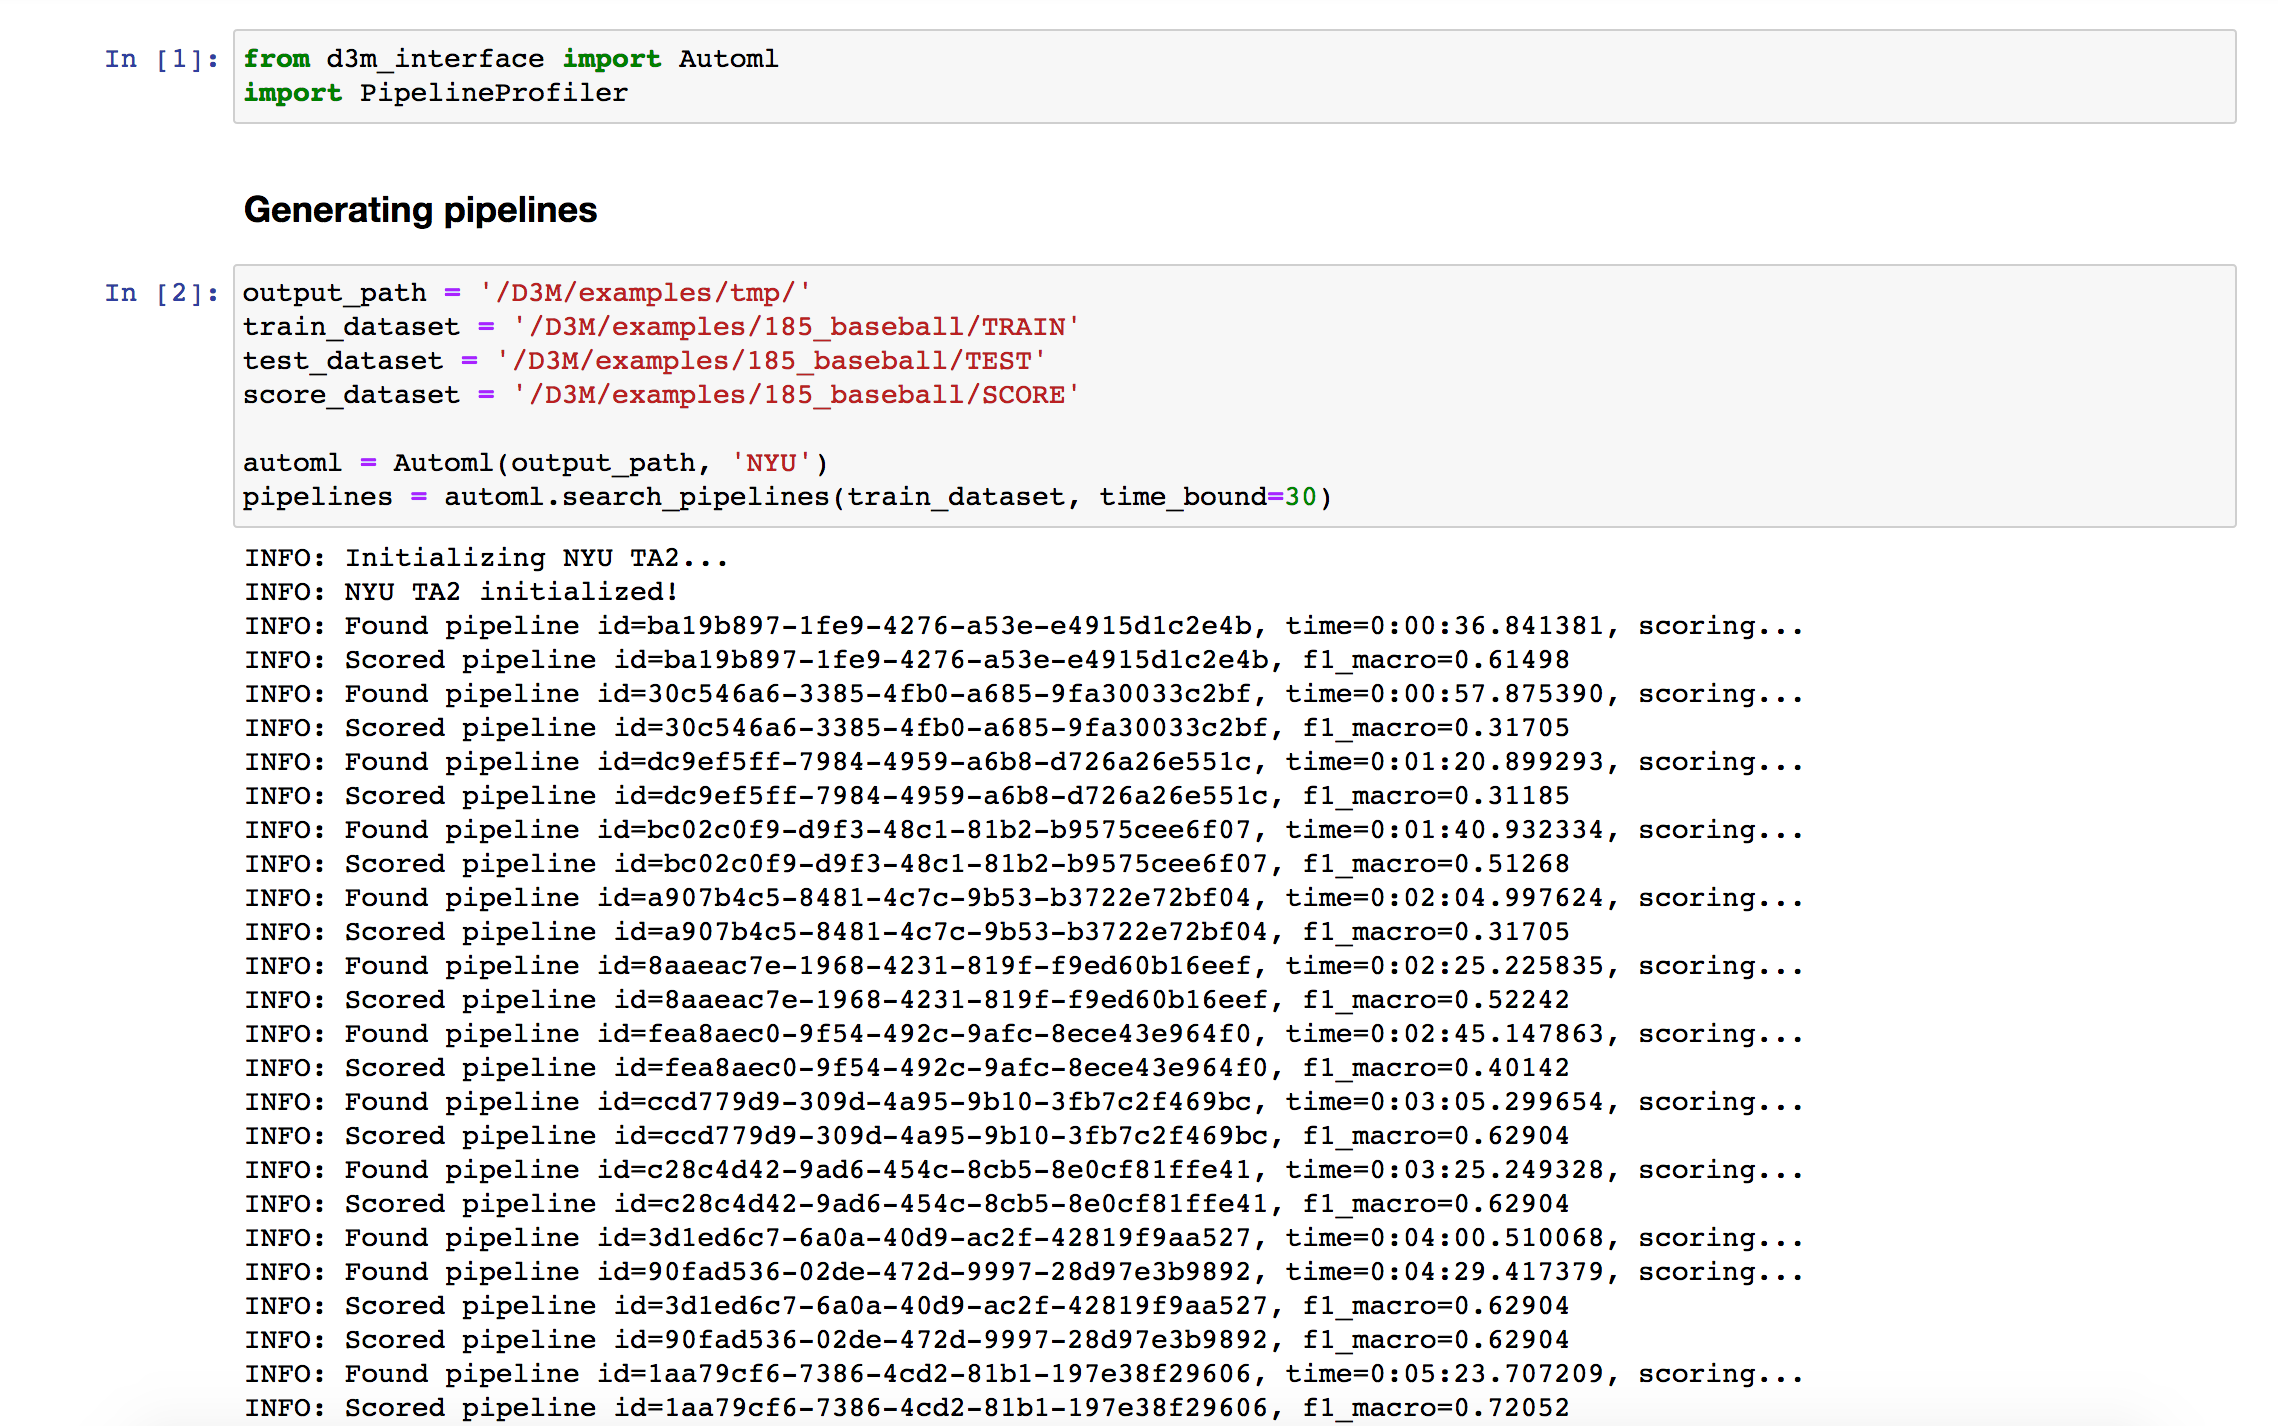
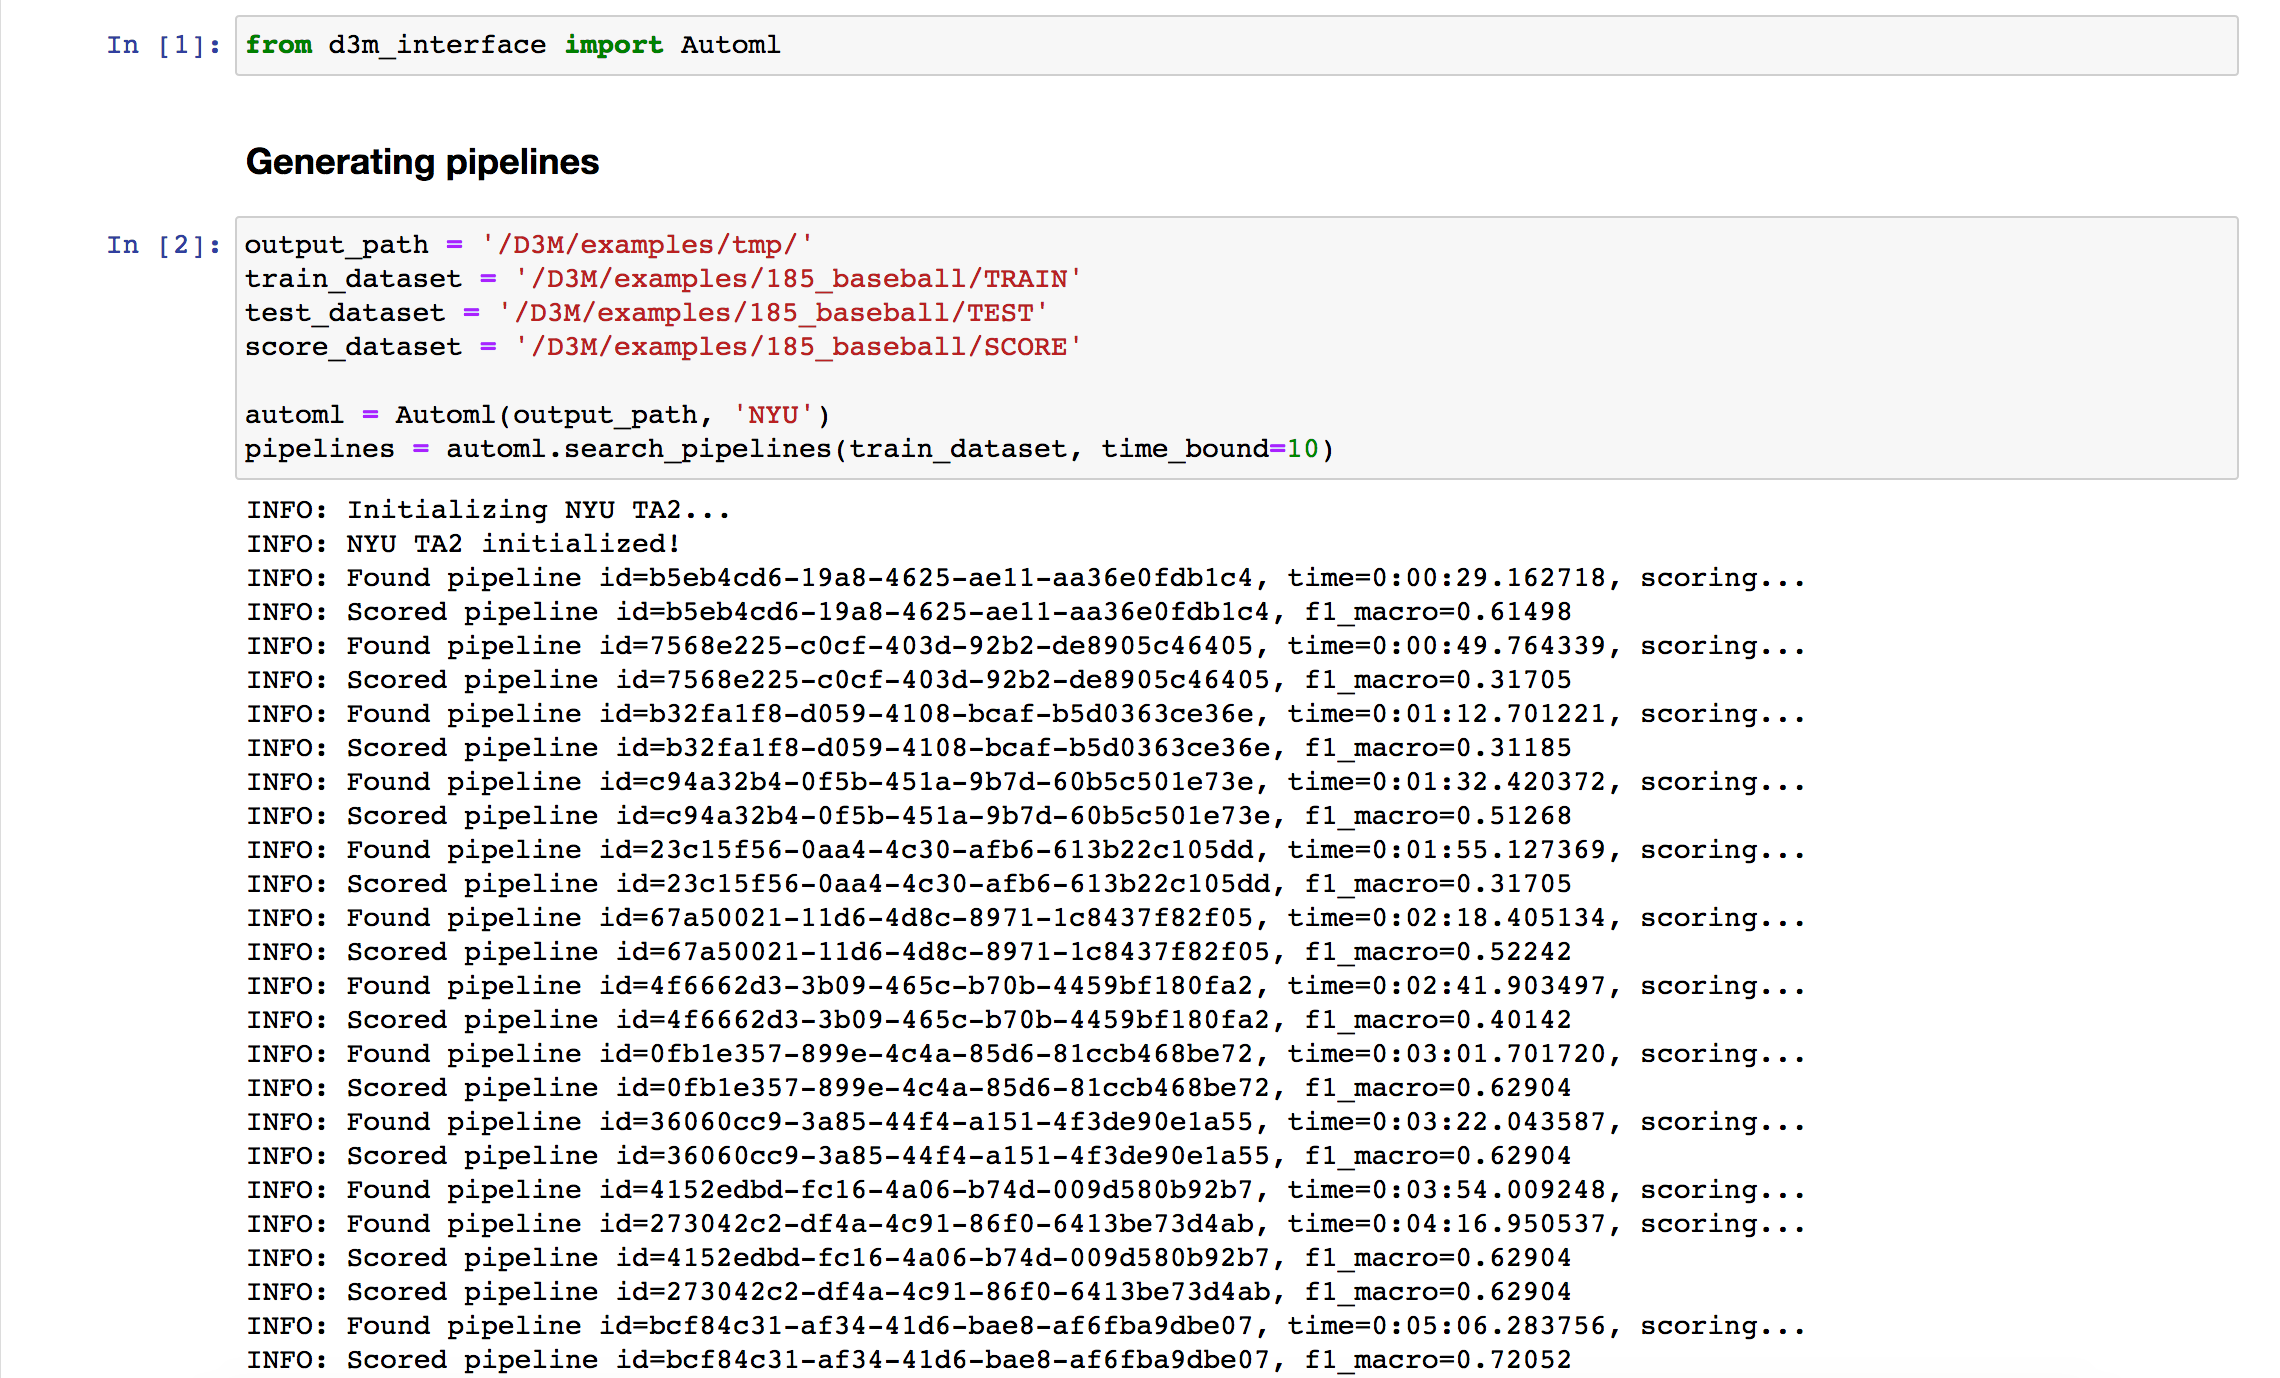
Update documentation

Changed region(s): [[0.0312, 0.0, 0.7792, 0.9985]]

diff --git a/docs/source/getting-started.rst b/docs/source/getting-started.rst
@@ -2,7 +2,7 @@ Getting started
 ===============
 
 `d3m-interface` integrates D3M AutoML systems with Jupyter Notebooks.
-The Jupyter notebooks provide an interactive computing environment where you can generate models using the D3M AutoML systems, and explore them using PipelineProfiler which is an interactive visualization aimed at producing detailed visualizations of end-to-end machine learning pipelines.
+The Jupyter notebooks provide an interactive computing environment where you can generate models using the D3M AutoML systems, and explore them using `PipelineProfiler <https://pypi.org/project/pipelineprofiler/>`__  which is an interactive visualization aimed at producing detailed visualizations of end-to-end machine learning pipelines.
 `d3m-interface` has two main components: model generation and model exploration.
 
 ..  figure:: images/d3m_interface_generation.png
@@ -49,19 +49,19 @@ Training, testing and scoring pipelines:
 .. code-block:: python
 
     # Training the pipeline
-    model = automl.train('ba19b897-1fe9-4276-a53e-e4915d1c2e4b')
+    model = automl.train('b5eb4cd6-19a8-4625-ae11-aa36e0fdb1c4')
 
     # Testing the pipeline
     predictions = automl.test(model, test_dataset)
     predictions
 
     # Scoring the pipeline
-    automl.score('ba19b897-1fe9-4276-a53e-e4915d1c2e4b', score_dataset)
+    automl.score('b5eb4cd6-19a8-4625-ae11-aa36e0fdb1c4', score_dataset)
 
 Model Exploration
 ------------------
 
-The model exploration component uses `PipelineProfiler <https://pypi.org/project/pipelineprofiler/>`__ to compare and explore the pipelines generated by the AutoML systems.
+The model exploration component uses PipelineProfiler to compare and explore the pipelines generated by the AutoML systems.
 
 
 After the pipeline search process, we can use PipelineProfiler with just one line of code:
